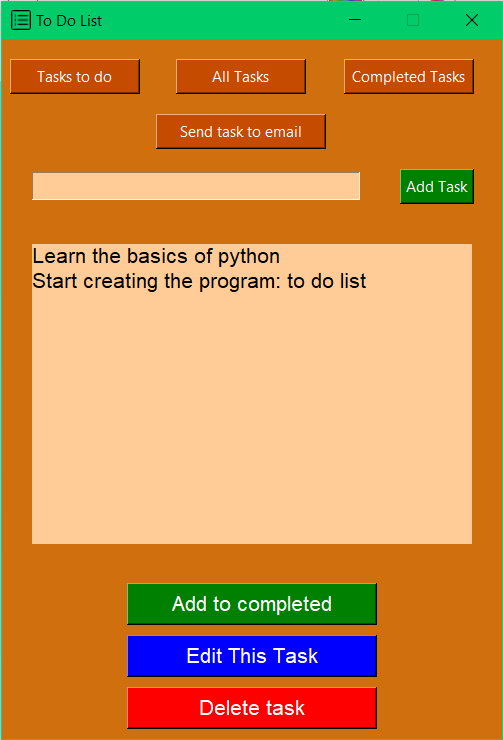
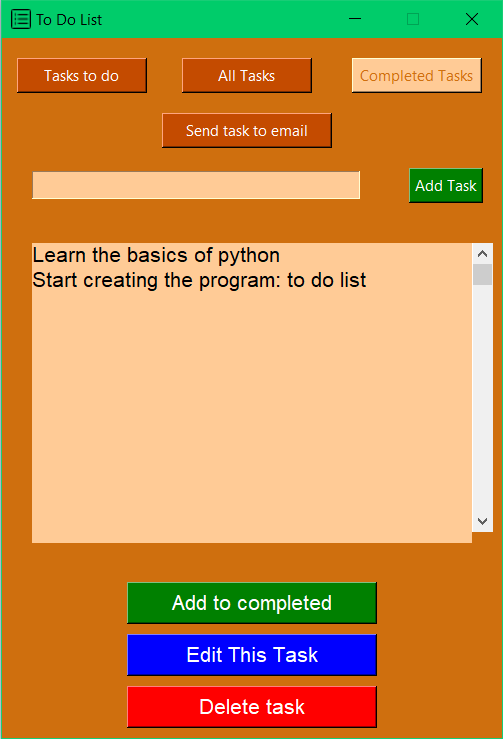
added changing color buttons after click, update fotos

diff --git a/src/app/main.py b/src/app/main.py
@@ -161,6 +161,11 @@ class ToDoList():
     
     # Show list of tasks to do
     def show_tasks_to_do_list(self):
+        # Changing fg and bg for clicked button
+        self.tasks_to_do_list_button.config(fg=APP_BACKGROUND, bg=INPUTS_BACKGROUND)
+        self.all_tasks_list_button.config(fg="white", bg=BUTTONS_BACKGROUND)
+        self.completed_tasks_list_button.config(fg="white", bg=BUTTONS_BACKGROUND)
+
         # Connect to database
         db_connector = sqlite3.connect('to_do_list.db')
 
@@ -176,6 +181,12 @@ class ToDoList():
 
     # Show list of tasks to do
     def show_all_tasks_list(self):
+        # Changing fg and bg for clicked button
+        self.tasks_to_do_list_button.config(fg="white", bg=BUTTONS_BACKGROUND)
+        self.all_tasks_list_button.config(fg=APP_BACKGROUND, bg=INPUTS_BACKGROUND)
+        self.completed_tasks_list_button.config(fg="white", bg=BUTTONS_BACKGROUND)
+
+
         # Connect to database
         db_connector = sqlite3.connect('to_do_list.db')
 
@@ -191,6 +202,11 @@ class ToDoList():
 
     # Show list of tasks to do
     def show_completed_tasks_list(self):
+        # Changing fg and bg for clicked button
+        self.tasks_to_do_list_button.config(fg="white", bg=BUTTONS_BACKGROUND)
+        self.all_tasks_list_button.config(fg="white", bg=BUTTONS_BACKGROUND)
+        self.completed_tasks_list_button.config(fg=APP_BACKGROUND, bg=INPUTS_BACKGROUND)
+
         # Connect to database
         db_connector = sqlite3.connect('to_do_list.db')
 
